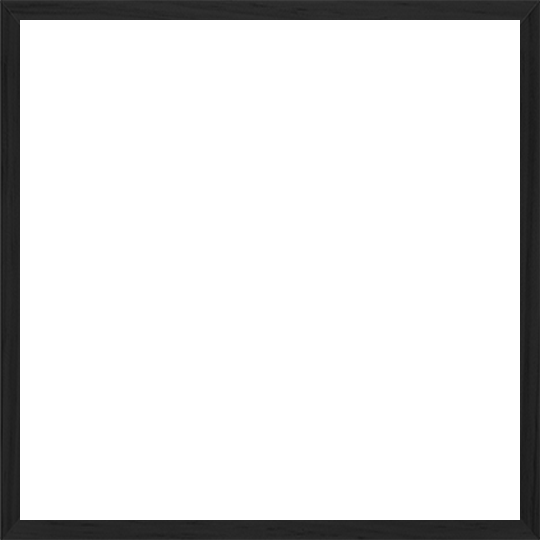
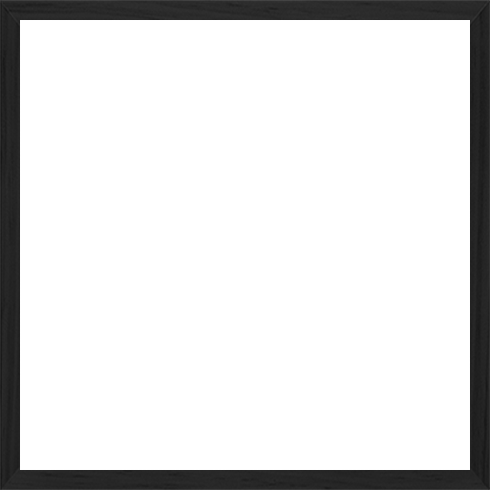
TODO LISTO PAPAAAAAAAAAAAAAAAAAA

Changed region(s): [[0.0306, 0.0306, 0.9796, 0.9796]]

diff --git a/public_html/css/myi.css b/public_html/css/myi.css
@@ -34,7 +34,7 @@ body{
 	background-size: contain;
 	background-repeat:no-repeat;
 	background-position:center center;
-	background-color:#fff;
+	background-color:#ECECEC;
 
 	min-width:100px;
 	min-height: 100px;
@@ -67,13 +67,17 @@ body{
 .colors-container ul{
 	margin: 0;
 	padding: 0;
+	width:100%;
+	height: auto;
 }
 .colors-container ul > li{
 	list-style: none;
-	width:20px;
-	height:20px;
+	width:20%;
+	width:calc(20% - 10px);
+	padding-top:20%;
+	padding-top: calc(20% - 10px);
 	display:inline-block;
-	margin:2px;
+	margin:5px;
 	border:1px solid rgb(255,255,255);
 
 }
@@ -121,14 +125,10 @@ body{
 	background-size: contain;
 	background-repeat: no-repeat;
 	border:1px solid #909090;
+	height: 40px;
 
 }
-.layers-container ul > li > .img-container:after
-{
-	content: ' ';
-	
-	display:block;
-}
+
 .layers-container ul > li > i{
 	float:right;
 	margin-right:5px;
@@ -231,6 +231,8 @@ body .center .canvas-container{
 	background: #fff;
 	padding: 15px 0;
 	height: 550px;
+
+	background:#b8b8b8;
 }
 body .center .canvas-container:after
 {
@@ -337,10 +339,9 @@ body footer .social{
 }
 #responsive-canvas-container
 {
-	width:540px;
-	height: 540px;
+	width:490px;
+	height: 490px;
 	position: absolute;
-	padding:0;
 	margin:0;
 	left:50%;
 	top:50%;
@@ -348,7 +349,7 @@ body footer .social{
 	-ms-transform: translateX(-50%) translateY(-50%);
 	-o-transform: translateX(-50%) translateY(-50%);
 	transform: translateX(-50%) translateY(-50%);
-	/*background:url(../myi-app/marco-negro-grande.png);*/
+	background:url(../myi-app/marco-negro-grande.png);
 	padding:20px;
 }
 
@@ -492,7 +493,7 @@ body footer .social{
 	}
 	.dropdown-menu-mine
 	{
-		left: 0;
+		left: 85%;
 		top:0;
 	}
 	
@@ -500,5 +501,19 @@ body footer .social{
 
 
 
+.center-hv
+{
+	position: absolute;
+	left:50%;
+	top:50%;
+	-webkit-transform: translateY(-50%) translateX(-50%);
+	-ms-transform: translateY(-50%) translateX(-50%);
+	-o-transform: translateY(-50%) translateX(-50%);
+	transform: translateY(-50%) translateX(-50%);
+}
 
-
+.colors-wrapper
+{
+	width:100%;
+	height:auto;
+}

diff --git a/public_html/myi-app/main.js b/public_html/myi-app/main.js
@@ -162,8 +162,13 @@ App.init.addFunction(function(arg) {
 	});
 
 	$.each(variants, function(index, value) {
+		var max = value.variantes.length - 1;
+		var i = Math.floor((Math.random() * max) + 0);
+
+
+		var objeto = this.variantes[i];
 		$('#shapes-container > ul').append(
-			'<li data-url="'+ this.ruta+'" data-index="'+index+'" style="background-image:url(' + this.ruta + ')"></li>'
+			'<li data-url="'+ objeto.route +'" data-index="'+index+'" style="background-image:url(' + objeto.route + ')"></li>'
 		);
 
 	});

diff --git a/makeyourikorma/resources/views/myi.blade.php b/makeyourikorma/resources/views/myi.blade.php
@@ -71,8 +71,9 @@ window.fbAsyncInit = function() {
 					</div>
 					<div id="colors-container" class="colors-container menu-slider-target">
 						<p>COLORS</p>
-						<ul class="colors">
-						</ul>
+						<div class="colors-wrapper center-hv">
+							<ul class="colors center-hv"></ul>
+						</div>
 					</div>
 					<div id="layers-container" class="layers-container menu-slider-target">
 						<p>layers</p>

diff --git a/makeyourikorma/app/Http/Controllers/MyiController.php b/makeyourikorma/app/Http/Controllers/MyiController.php
@@ -78,7 +78,7 @@ class MyiController extends Controller {
 
 		$marco = $dir . "\\public_html\\myi-app\\marco-negro-grande.png";
 		
-		$img = Image::canvas(540, 540, "#fff")
+		$img = Image::canvas(490, 490, "#fff")
 			->insert($imgData, 'top-left', 20, 20)
 			->insert($marco, '0', '0');
 
